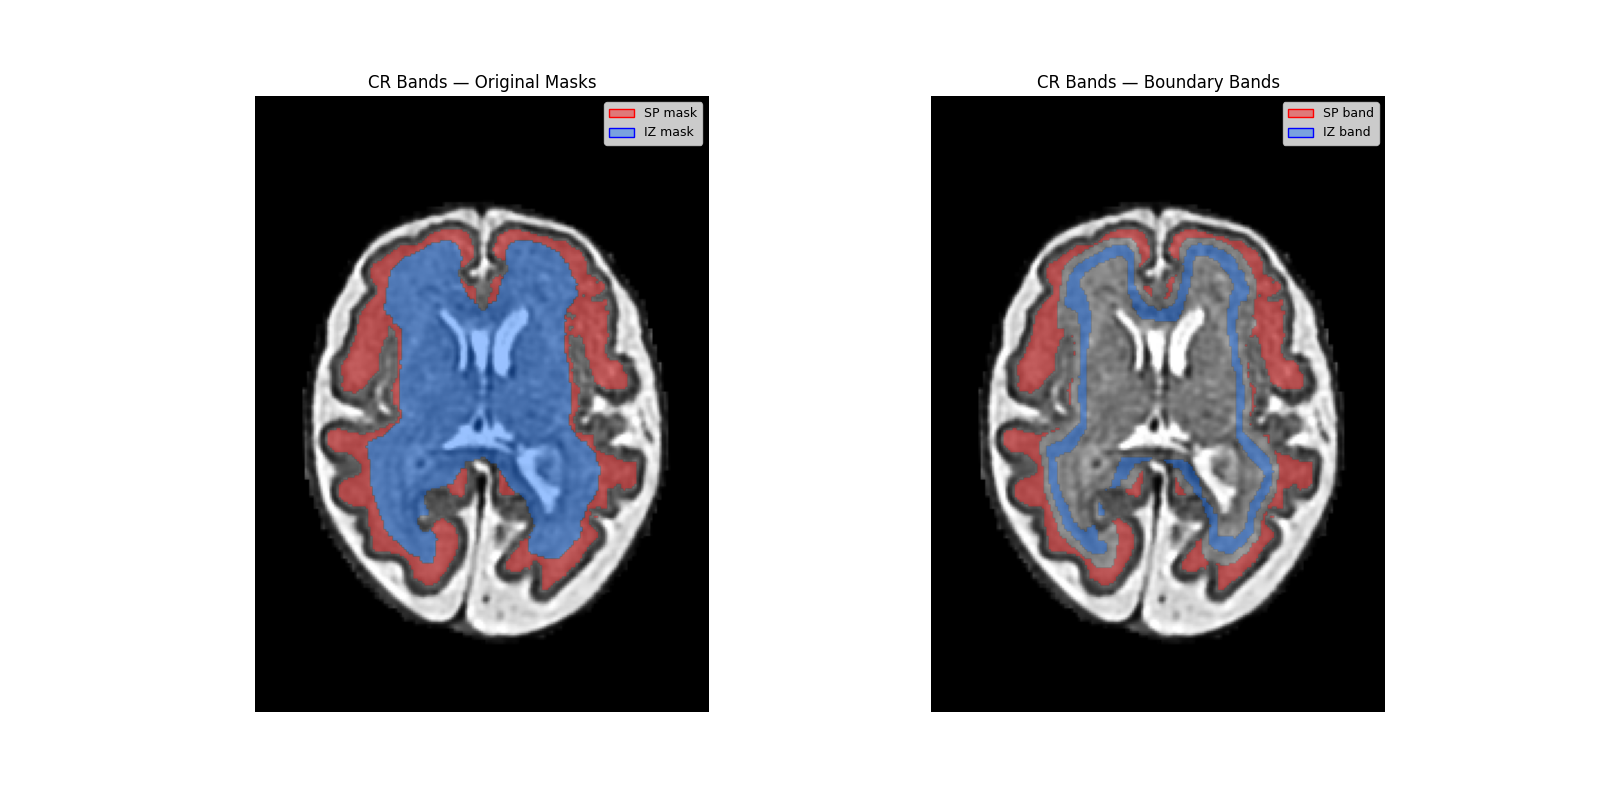
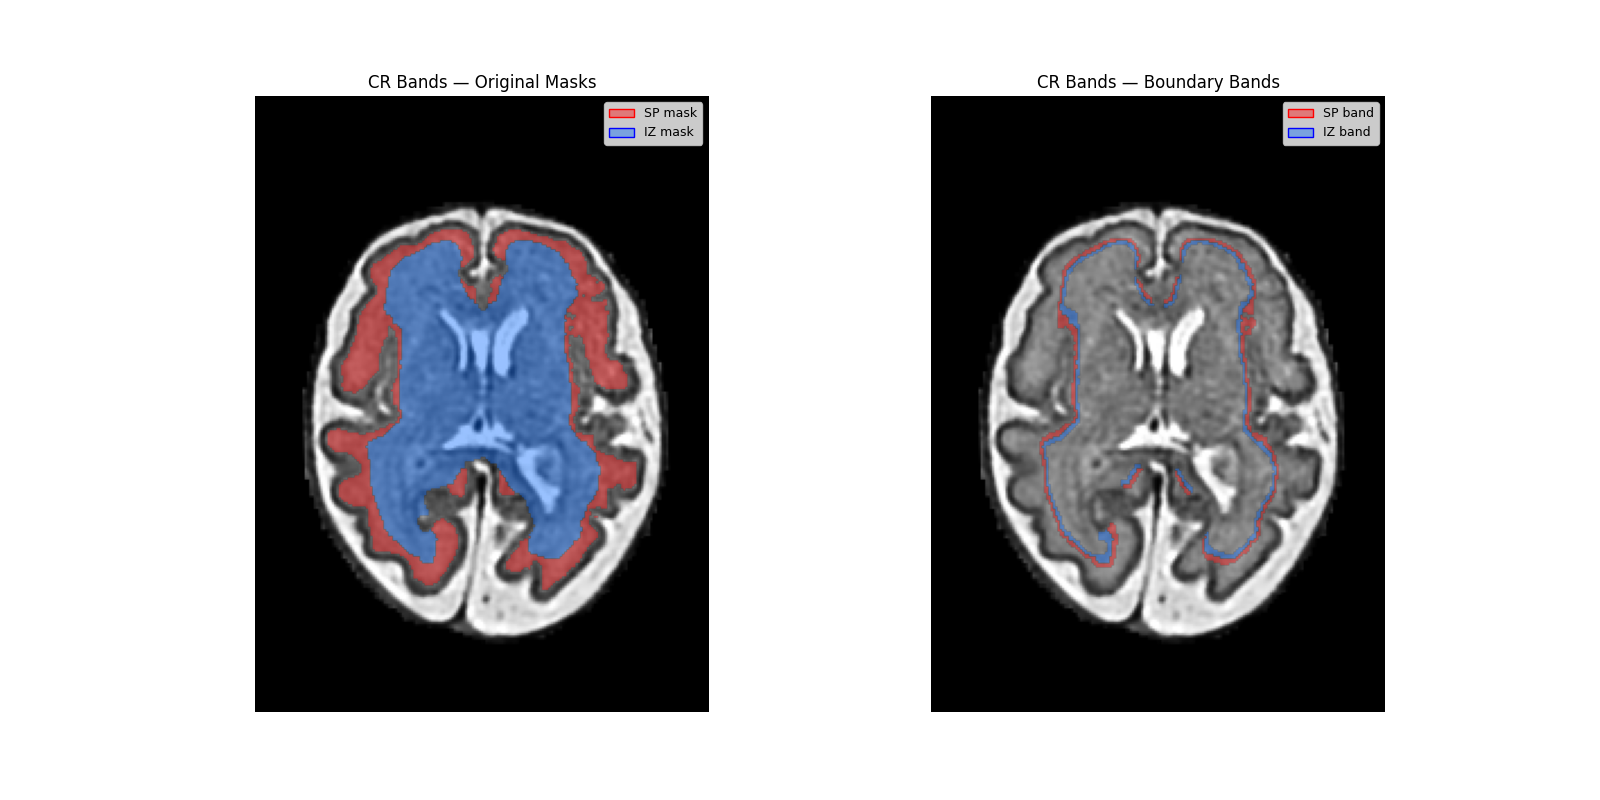
Boundary voxels only

Changed region(s): [[0.625, 0.2812, 0.8438, 0.75]]

diff --git a/analisys/functions/CNR.py b/analisys/functions/CNR.py
@@ -4,7 +4,7 @@ import pandas as pd
 from scipy.ndimage import binary_dilation, generate_binary_structure
 import os
 import matplotlib.pyplot as plt
-from functions.helpers import get_middle_slice, normalize_intensity
+from helpers import get_middle_slice, normalize_intensity
 
 TISSUE_LABELS = {
     "sp": [4, 5],
@@ -24,17 +24,12 @@ def compute_cr(t2_data, seg_data, connectivity=3):
     iz_mask = np.isin(seg_data, TISSUE_LABELS["inner"])
 
     # SP boundary: SP voxels adjacent to IZ
-    sp_boundary = sp_mask & binary_dilation(iz_mask, structure=struct)
+    sp_boundary = sp_mask & binary_dilation(iz_mask, structure=struct, iterations=1)
     # IZ boundary: IZ voxels adjacent to SP
-    iz_boundary = iz_mask & binary_dilation(sp_mask, structure=struct)
+    iz_boundary = iz_mask & binary_dilation(sp_mask, structure=struct, iterations=1)
 
-    # Get a band of the sp by removing the boundary
-    sp_band = sp_mask & ~sp_boundary
-
-    # Get a band of the iz by dilating the boundary inwards
-    iz_band_dilated = binary_dilation(iz_boundary, iterations=3, structure=struct)
-    iz_band = iz_band_dilated & iz_mask
-    iz_band = iz_band & ~iz_boundary
+    sp_band = sp_boundary
+    iz_band = iz_boundary
 
     sp_int = t2_data[sp_band]
     iz_int = t2_data[iz_band]
